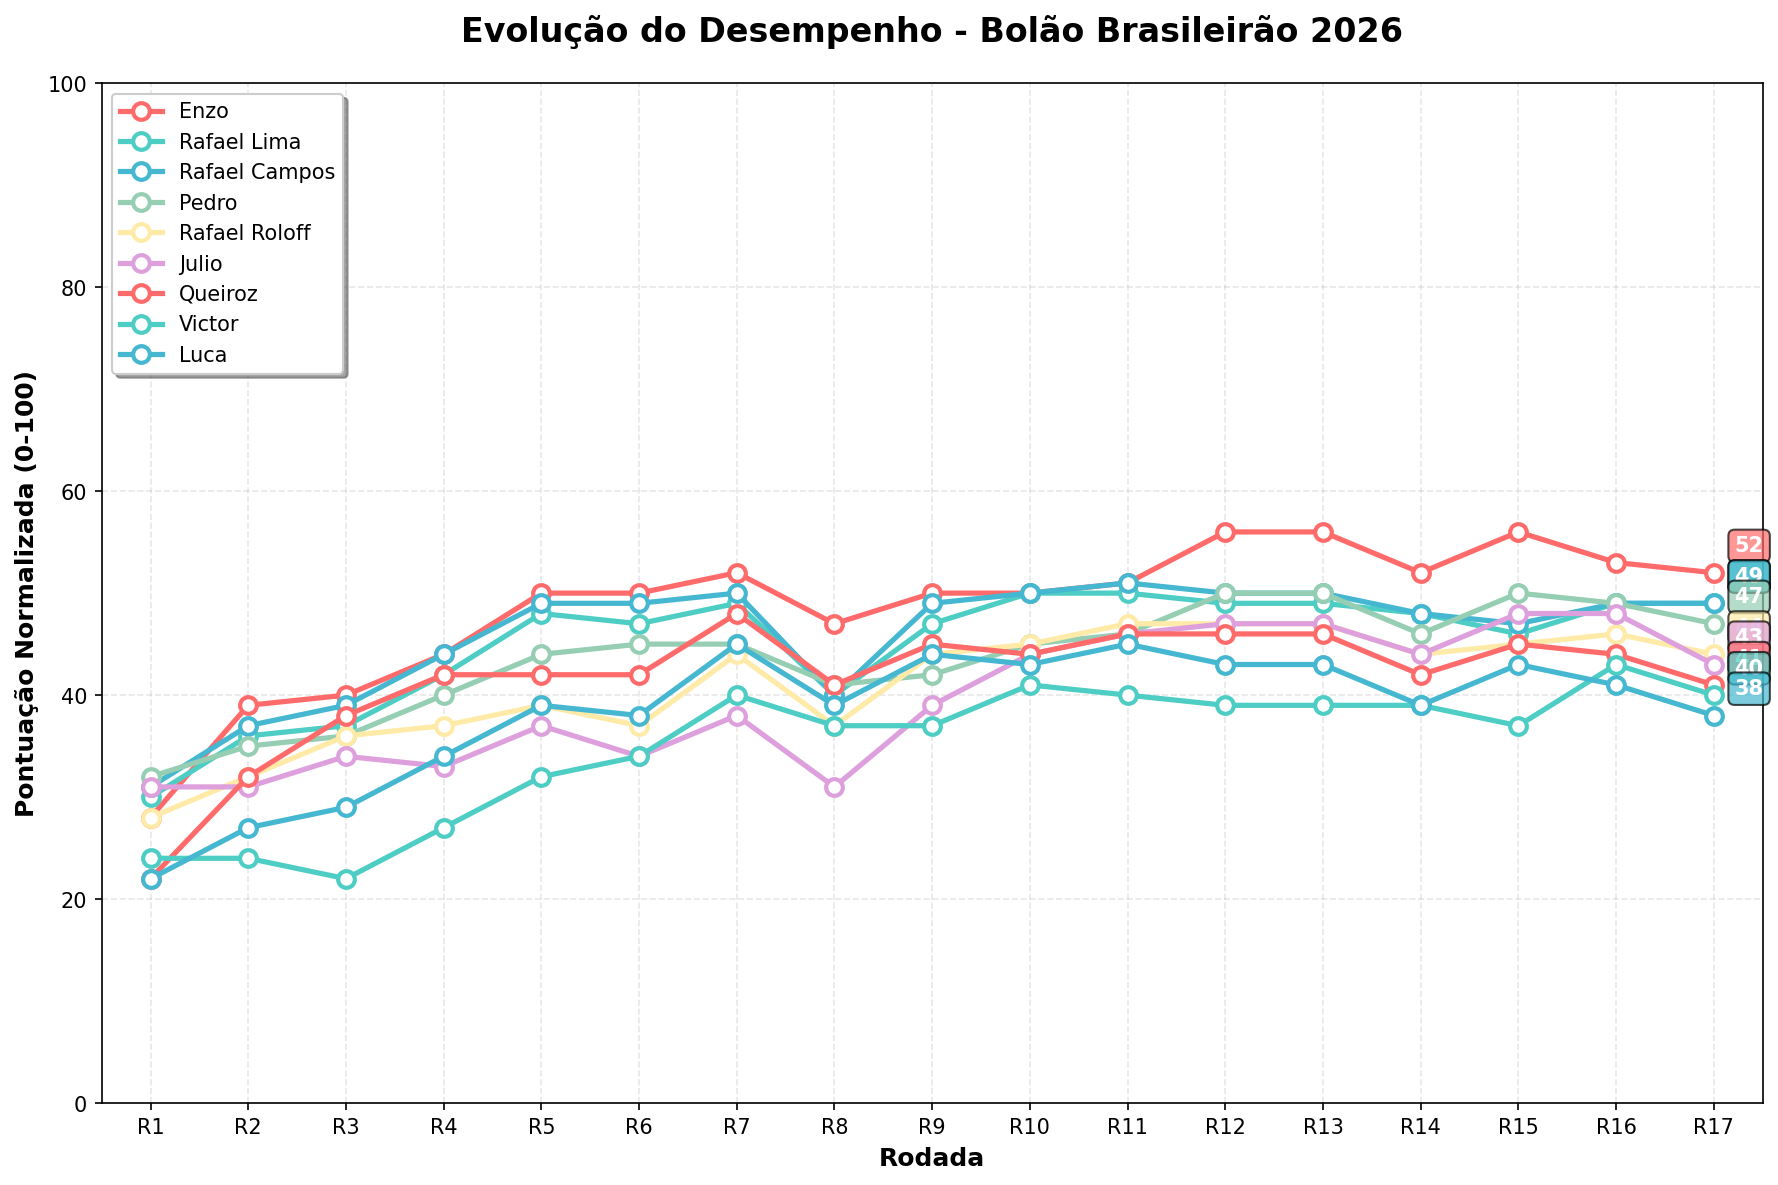
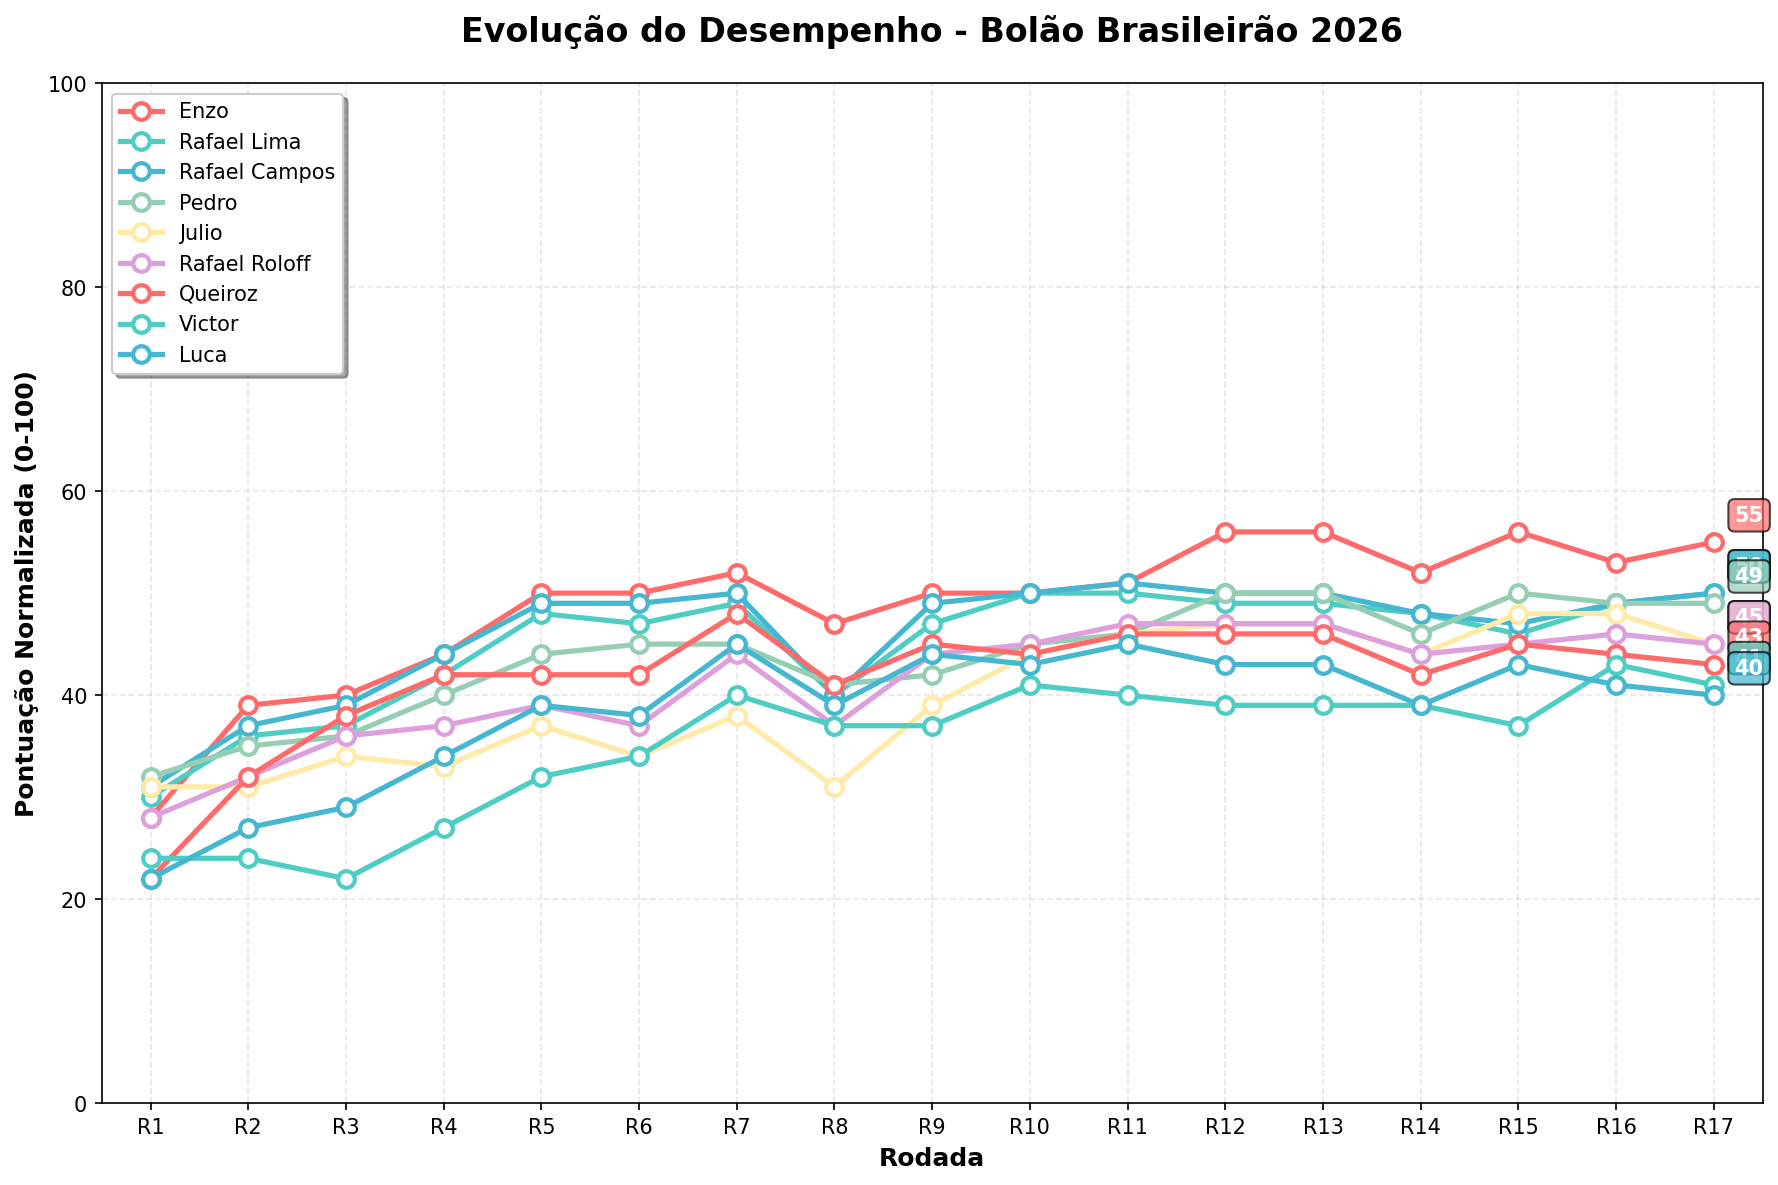
Atualizacao automatica - 26/05/2026 11:00:04,58

diff --git a/README.md b/README.md
@@ -2,71 +2,71 @@
 
 ## 🏆 Resultados Atuais
 
-**Última Atualização:** 2026-05-24 11:00:03
+**Última Atualização:** 2026-05-26 11:00:03
 
-| Time | Real | Enzo | Rafael Lima | Rafael Campos | Pedro | Rafael Roloff | Julio | Queiroz | Victor | Luca |
+| Time | Real | Enzo | Rafael Lima | Rafael Campos | Pedro | Julio | Rafael Roloff | Queiroz | Victor | Luca |
 |------|------|------|------|------|------|------|------|------|------|------|
 | Palmeiras | 1 | 2°(19p) | 3°(18p) | 3°(18p) | 3°(18p) | 2°(19p) | 2°(19p) | 3°(18p) | 3°(18p) | 3°(18p) |
 | Flamengo | 2 | 1°(19p) | 1°(19p) | 1°(19p) | 2°(20p) | 1°(19p) | 1°(19p) | 1°(19p) | 1°(19p) | 1°(19p) |
-| Fluminense | 3 | 4°(19p) | 6°(17p) | 7°(16p) | 4°(19p) | 8°(15p) | 7°(16p) | 7°(16p) | 10°(13p) | 8°(15p) |
-| São Paulo | 4 | 16°(8p) | 14°(10p) | 12°(12p) | 15°(9p) | 16°(8p) | 15°(9p) | 17°(7p) | 16°(8p) | 14°(10p) |
-| Atlético-PR | 5 | 17°(8p) | 17°(8p) | 17°(8p) | 18°(7p) | 17°(8p) | 17°(8p) | 15°(10p) | 13°(12p) | 17°(8p) |
-| Bragantino | 6 | 6°(20p) | 10°(16p) | 10°(16p) | 9°(17p) | 13°(13p) | 10°(16p) | 18°(8p) | 15°(11p) | 13°(13p) |
-| Bahia | 7 | 5°(18p) | 4°(17p) | 4°(17p) | 7°(20p) | 6°(19p) | 5°(18p) | 4°(17p) | 9°(18p) | 5°(18p) |
-| Coritiba | 8 | 15°(13p) | 16°(12p) | 16°(12p) | 19°(9p) | 14°(14p) | 19°(9p) | 12°(16p) | 20°(8p) | 20°(8p) |
-| Botafogo | 9 | 10°(19p) | 8°(19p) | 9°(20p) | 5°(16p) | 7°(18p) | 6°(17p) | 11°(18p) | 5°(16p) | 11°(18p) |
-| Vitória | 10 | 18°(12p) | 18°(12p) | 18°(12p) | 17°(13p) | 18°(12p) | 16°(14p) | 19°(11p) | 17°(13p) | 18°(12p) |
-| Atlético-MG | 11 | 12°(19p) | 5°(14p) | 5°(14p) | 13°(18p) | 4°(13p) | 4°(13p) | 9°(18p) | 2°(11p) | 4°(13p) |
-| Internacional | 12 | 14°(18p) | 13°(19p) | 15°(17p) | 14°(18p) | 15°(17p) | 14°(18p) | 14°(18p) | 6°(14p) | 15°(17p) |
-| Grêmio | 13 | 7°(14p) | 7°(14p) | 6°(13p) | 6°(13p) | 12°(19p) | 18°(15p) | 5°(12p) | 4°(11p) | 6°(13p) |
-| Vasco | 14 | 9°(15p) | 15°(19p) | 14°(20p) | 10°(16p) | 11°(17p) | 11°(17p) | 10°(16p) | 12°(18p) | 9°(15p) |
-| Cruzeiro | 15 | 3°(8p) | 2°(7p) | 2°(7p) | 1°(6p) | 3°(8p) | 3°(8p) | 2°(7p) | 7°(12p) | 2°(7p) |
-| Corinthians | 16 | 8°(12p) | 9°(13p) | 8°(12p) | 8°(12p) | 5°(9p) | 9°(13p) | 6°(10p) | 8°(12p) | 10°(14p) |
-| Santos | 17 | 11°(14p) | 12°(15p) | 13°(16p) | 11°(14p) | 9°(12p) | 12°(15p) | 13°(16p) | 11°(14p) | 7°(10p) |
-| Mirassol | 18 | 13°(15p) | 11°(13p) | 11°(13p) | 12°(14p) | 10°(12p) | 8°(10p) | 8°(10p) | 14°(16p) | 12°(14p) |
-| Remo | 19 | 20°(19p) | 20°(19p) | 20°(19p) | 16°(17p) | 20°(19p) | 13°(14p) | 16°(17p) | 19°(20p) | 16°(17p) |
-| Chapecoense | 20 | 19°(19p) | 19°(19p) | 19°(19p) | 20°(20p) | 19°(19p) | 20°(20p) | 20°(20p) | 18°(18p) | 19°(19p) |
-| **TOTAL** | | **308** | **300** | **300** | **296** | **290** | **288** | **284** | **282** | **278** |
+| Fluminense | 3 | 4°(19p) | 6°(17p) | 7°(16p) | 4°(19p) | 7°(16p) | 8°(15p) | 7°(16p) | 10°(13p) | 8°(15p) |
+| Atlético-PR | 4 | 17°(7p) | 17°(7p) | 17°(7p) | 18°(6p) | 17°(7p) | 17°(7p) | 15°(9p) | 13°(11p) | 17°(7p) |
+| Bragantino | 5 | 6°(19p) | 10°(15p) | 10°(15p) | 9°(16p) | 10°(15p) | 13°(12p) | 18°(7p) | 15°(10p) | 13°(12p) |
+| Coritiba | 6 | 15°(11p) | 16°(10p) | 16°(10p) | 19°(7p) | 19°(7p) | 14°(12p) | 12°(14p) | 20°(6p) | 20°(6p) |
+| São Paulo | 7 | 16°(11p) | 14°(13p) | 12°(15p) | 15°(12p) | 15°(12p) | 16°(11p) | 17°(10p) | 16°(11p) | 14°(13p) |
+| Bahia | 8 | 5°(17p) | 4°(16p) | 4°(16p) | 7°(19p) | 5°(17p) | 6°(18p) | 4°(16p) | 9°(19p) | 5°(17p) |
+| Cruzeiro | 9 | 3°(14p) | 2°(13p) | 2°(13p) | 1°(12p) | 3°(14p) | 3°(14p) | 2°(13p) | 7°(18p) | 2°(13p) |
+| Botafogo | 10 | 10°(20p) | 8°(18p) | 9°(19p) | 5°(15p) | 6°(16p) | 7°(17p) | 11°(19p) | 5°(15p) | 11°(19p) |
+| Vitória | 11 | 18°(13p) | 18°(13p) | 18°(13p) | 17°(14p) | 16°(15p) | 18°(13p) | 19°(12p) | 17°(14p) | 18°(13p) |
+| Atlético-MG | 12 | 12°(20p) | 5°(13p) | 5°(13p) | 13°(19p) | 4°(12p) | 4°(12p) | 9°(17p) | 2°(10p) | 4°(12p) |
+| Internacional | 13 | 14°(19p) | 13°(20p) | 15°(18p) | 14°(19p) | 14°(19p) | 15°(18p) | 14°(19p) | 6°(13p) | 15°(18p) |
+| Grêmio | 14 | 7°(13p) | 7°(13p) | 6°(12p) | 6°(12p) | 18°(16p) | 12°(18p) | 5°(11p) | 4°(10p) | 6°(12p) |
+| Corinthians | 15 | 8°(13p) | 9°(14p) | 8°(13p) | 8°(13p) | 9°(14p) | 5°(10p) | 6°(11p) | 8°(13p) | 10°(15p) |
+| Vasco | 16 | 9°(13p) | 15°(19p) | 14°(18p) | 10°(14p) | 11°(15p) | 11°(15p) | 10°(14p) | 12°(16p) | 9°(13p) |
+| Santos | 17 | 11°(14p) | 12°(15p) | 13°(16p) | 11°(14p) | 12°(15p) | 9°(12p) | 13°(16p) | 11°(14p) | 7°(10p) |
+| Mirassol | 18 | 13°(15p) | 11°(13p) | 11°(13p) | 12°(14p) | 8°(10p) | 10°(12p) | 8°(10p) | 14°(16p) | 12°(14p) |
+| Remo | 19 | 20°(19p) | 20°(19p) | 20°(19p) | 16°(17p) | 13°(14p) | 20°(19p) | 16°(17p) | 19°(20p) | 16°(17p) |
+| Chapecoense | 20 | 19°(19p) | 19°(19p) | 19°(19p) | 20°(20p) | 20°(20p) | 19°(19p) | 20°(20p) | 18°(18p) | 19°(19p) |
+| **TOTAL** | | **314** | **304** | **302** | **300** | **292** | **292** | **288** | **284** | **282** |
 
 ### 🏅 Classificação Atual (pontuação normalizada 0-100)
 
-🥇 **Enzo**: 52 pontos<br>
-🥈 **Rafael Lima**: 49 pontos<br>
-🥉 **Rafael Campos**: 49 pontos<br>
-4. **Pedro**: 47 pontos<br>
-5. **Rafael Roloff**: 44 pontos<br>
-6. **Julio**: 43 pontos<br>
-7. **Queiroz**: 41 pontos<br>
-8. **Victor**: 40 pontos<br>
-9. **Luca**: 38 pontos<br>
+🥇 **Enzo**: 55 pontos<br>
+🥈 **Rafael Lima**: 50 pontos<br>
+🥉 **Rafael Campos**: 50 pontos<br>
+4. **Pedro**: 49 pontos<br>
+5. **Julio**: 45 pontos<br>
+6. **Rafael Roloff**: 45 pontos<br>
+7. **Queiroz**: 43 pontos<br>
+8. **Victor**: 41 pontos<br>
+9. **Luca**: 40 pontos<br>
 
 ### 📈 Histórico de Desempenho
 
 ![Gráfico de Performance](performance_chart.png)
 
-| Rodada | Enzo | Rafael Lima | Rafael Campos | Pedro | Rafael Roloff | Julio | Queiroz | Victor | Luca |
+| Rodada | Enzo | Rafael Lima | Rafael Campos | Pedro | Julio | Rafael Roloff | Queiroz | Victor | Luca |
 |-------|-------|-------|-------|-------|-------|-------|-------|-------|-------|
-| R8 | 47 | 40 | 40 | 41 | 37 | 31 | 41 | 37 | 39 |
-| R9 | 50 | 47 | 49 | 42 | 44 | 39 | 45 | 37 | 44 |
-| R10 | 50 | 50 | 50 | 45 | 45 | 44 | 44 | 41 | 43 |
-| R11 | 51 | 50 | 51 | 46 | 47 | 46 | 46 | 40 | 45 |
+| R8 | 47 | 40 | 40 | 41 | 31 | 37 | 41 | 37 | 39 |
+| R9 | 50 | 47 | 49 | 42 | 39 | 44 | 45 | 37 | 44 |
+| R10 | 50 | 50 | 50 | 45 | 44 | 45 | 44 | 41 | 43 |
+| R11 | 51 | 50 | 51 | 46 | 46 | 47 | 46 | 40 | 45 |
 | R12 | 56 | 49 | 50 | 50 | 47 | 47 | 46 | 39 | 43 |
 | R13 | 56 | 49 | 50 | 50 | 47 | 47 | 46 | 39 | 43 |
 | R14 | 52 | 48 | 48 | 46 | 44 | 44 | 42 | 39 | 39 |
-| R15 | 56 | 46 | 47 | 50 | 45 | 48 | 45 | 37 | 43 |
-| R16 | 53 | 49 | 49 | 49 | 46 | 48 | 44 | 43 | 41 |
-| R17 | 52 | 49 | 49 | 47 | 44 | 43 | 41 | 40 | 38 |
+| R15 | 56 | 46 | 47 | 50 | 48 | 45 | 45 | 37 | 43 |
+| R16 | 53 | 49 | 49 | 49 | 48 | 46 | 44 | 43 | 41 |
+| R17 | 55 | 50 | 50 | 49 | 45 | 45 | 43 | 41 | 40 |
 
 **Tendência (últimas 2 medições):**
-- **Enzo**: 📉 -1
-- **Rafael Lima**: ➡ =0
-- **Rafael Campos**: ➡ =0
-- **Pedro**: 📉 -2
-- **Rafael Roloff**: 📉 -2
-- **Julio**: 📉 -5
-- **Queiroz**: 📉 -3
-- **Victor**: 📉 -3
-- **Luca**: 📉 -3
+- **Enzo**: 📈 +2
+- **Rafael Lima**: 📈 +1
+- **Rafael Campos**: 📈 +1
+- **Pedro**: ➡ =0
+- **Julio**: 📉 -3
+- **Rafael Roloff**: 📉 -1
+- **Queiroz**: 📉 -1
+- **Victor**: 📉 -2
+- **Luca**: 📉 -1
 
 ## 🎯 Sistema de Pontuação
 
